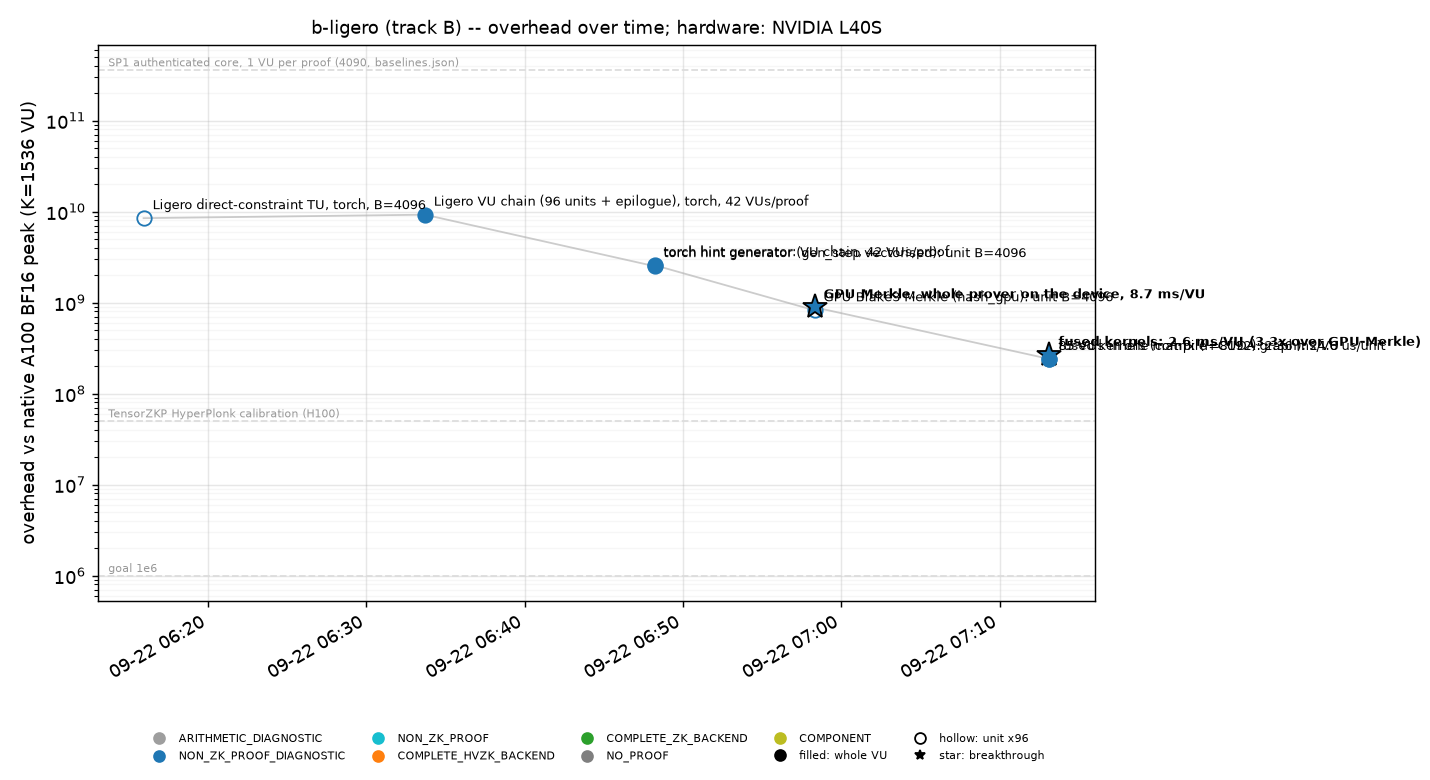
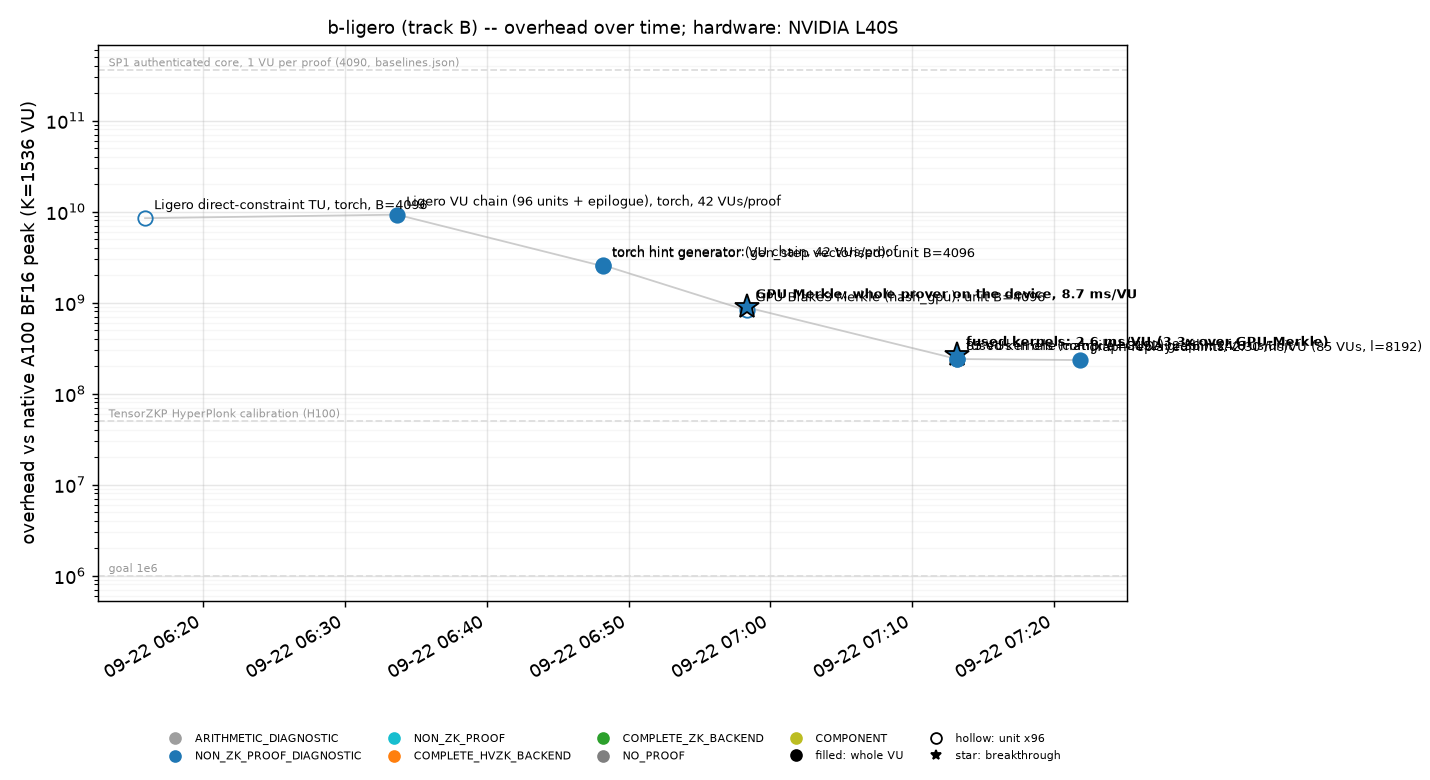
b-ligero: graph-replayed hints measured -- 23.2 us/unit, 2.57 ms/VU (42), 2.30 ms/VU (85); gates re-run; ledger + plots

diff --git a/backends/direct/ligero/README.md b/backends/direct/ligero/README.md
@@ -58,21 +58,21 @@ and constraint kernels, CUDA-graph replay of the witness program):
 
 | | unit proof, B = 4096 units | VU proof, 42 VUs (l = 4096) | VU proof, 85 VUs (l = 8192) |
 |---|---|---|---|
-| **prover total** | **0.101 s** (**24.6 us/unit**, 2.4 ms per 96 units) | **0.110 s** (**2.62 ms/VU**) | **0.200 s** (**2.36 ms/VU**) |
-| hints (torch `gen_step`, cross-checked equal to the checker's) | 0.023 s | 0.020 s | 0.037 s |
+| **prover total** | **0.095 s** (**23.2 us/unit**, 2.2 ms per 96 units) | **0.108 s** (**2.57 ms/VU**) | **0.195 s** (**2.30 ms/VU**) |
+| hints (torch `gen_step` as one CUDA graph, + the public decodes; cross-checked equal to the checker's) | 0.017 s | 0.017 s | 0.031 s |
 | witness (torch program as one CUDA graph: products, bits, selectors) | 0.008 s | 0.008 s | 0.009 s |
 | encode (int64 NTT, compiled butterfly, 3372/3516 x l -> 4l) | 0.031 s | 0.032 s | 0.069 s |
 | int32 view of U (nothing leaves the device) | 0.001 s | 0.001 s | 0.002 s |
 | Merkle (Blake3 on the GPU, 221 / 230 / 461 MB) | 0.001 s | 0.001 s | 0.002 s |
 | tests (w, quotient h, chain q; compiled combine / sparse-apply) | 0.034 s | 0.044 s | 0.079 s |
 | openings (m x t columns to the host, paths) | 0.003 s | 0.003 s | 0.004 s |
-| verifier | 0.032 s | 0.038 s | 0.054 s |
+| verifier | 0.030 s | 0.039 s | 0.054 s |
 | proof bytes | 2.83 MB (2.55 MB opened columns) | 3.14 MB (75 KB/VU) | 3.54 MB (42 KB/VU) |
 | committed | 3372 x 16384 x 4 B = 221 MB | 230 MB (5.5 MB/VU) | 461 MB |
-| peak device memory | 3.17 GB | 3.30 GB | 6.60 GB |
+| peak device memory | 3.18 GB | 3.31 GB | 6.61 GB |
 | soundness (accounting) | 2^-128.1 (t = 189, D = 6) | 2^-128.1 | 2^-128.1 |
 | `rounds.sequential_depth` | 2 | 2 | 2 |
-| **overhead vs native 9.85 ps/VU** | 2.4e8 (scope unit, x96) | **2.7e8** (scope vu) | **2.4e8** (scope vu) |
+| **overhead vs native 9.85 ps/VU** | 2.3e8 (scope unit, x96) | **2.6e8** (scope vu) | **2.3e8** (scope vu) |
 
 How it got there (ledger `b-ligero.jsonl`, all on the L40S):
 
@@ -84,17 +84,19 @@ How it got there (ledger `b-ligero.jsonl`, all on the L40S):
 | `torch.compile` NTT butterfly (7 passes/stage -> 1; 93 -> 21 ms per NTT) | 0.25 s | 0.27 s | 6.4 |
 | compiled combine / sparse-apply (tests 0.062 -> 0.034 s) | 0.19 s | 0.20 s | 4.8 |
 | CUDA-graph replay of the witness program (~2500 launches; 55 -> 8 ms) | 0.101 s | 0.110 s | 2.6 |
+| CUDA-graph replay of the hint generator (23 -> 17 ms) | 0.095 s | 0.108 s | 2.57 |
 
-What is left is roughly a three-way split between the NTT (31%), the tests (34% -- a sparse matmul of the constraint
-tables against `W`, still int64) and the host hint generator (22%, the only host work: it is `gen_step` in torch on
-the CPU tensors and moves to the device next). The prover is at 2.4 ms/VU with 0.5 ms of that outside the GPU.
+What is left is the NTT (33%), the tests (36% -- a sparse matmul of the constraint tables against `W`, still int64)
+and the hints + public decodes (18%: numpy -> device copies of the operands and ~200 small kernels with a few domain
+checks that synchronise). Both big items are int64 elementwise work; the tensor-core DFT (section 8) is the next
+step for the NTT, an int32 sparse matmul for the tests.
 
 ## Negatives and labels
 
 Every number: `NON_ZK_PROOF_DIAGNOSTIC`, authentication excluded, hardware NVIDIA L40S, security `2^-128` by the
 accounting (hash and SHAKE challenge expander are placeholders), scope `unit` numbers omit chain linkage / epilogue
 (the `vu` row has them), ZK masking omitted (its cost: PROTOCOL.md section 8b -- at `2^-128` it doubles the codeword
-length, so encoding and hashing double: +0.03 s on the 0.10 s prover, ~+30%). No predicate of WP2's
+length, so encoding and hashing double: +0.03 s on the 0.095 s prover, ~+33%). No predicate of WP2's
 `check_step_expr` / `check_vu_expr` is dropped; the restatements are listed in PROTOCOL.md section 5 and 7b.
 
 ## Files

diff --git a/backends/direct/ligero/PROTOCOL.md b/backends/direct/ligero/PROTOCOL.md
@@ -207,7 +207,7 @@ extra committed rows, negligible). With `k = l + t = 4285 -> 8192` (the next pow
 the rate halves to 1/2: Appendix C then needs `t` such that `(1 - e/n)^t + ((k + l)/n)^t + (2k/n)^t <= 2^-128` with
 `e = (n - k)/2 = 4096`: `(3/4)^t` -> `t = 309`, `(2k/n)^t = 1^t` -- **the quadratic test fails at rate 1/2**
 (`n > 2k` is required). So ZK at `2^-128` needs `n = 32768` (rate 1/4 again with `k = 8192`): encoding, transfer and
-hashing double (`+0.03 s` on the 0.10 s prover at B = 4096: encode 0.031 -> 0.062, hashing 1 -> 2 ms, ~+30%), the opened columns stay `t = 189` (same `(5/8)^189`
+hashing double (`+0.03 s` on the 0.095 s prover at B = 4096: encode 0.031 -> 0.062, hashing 1 -> 2 ms, ~+30%), the opened columns stay `t = 189` (same `(5/8)^189`
 with `e = (n - k)/2 = 12288`) but `m t` bytes are unchanged, `w, h, q` double in length (`+0.4 MB`), peak memory
 doubles (`6.3 GB`; the 85-VU `l = 8192, n = 32768` run measured 6.6 GB). Alternatively keep `n = 16384` and halve `l` to 2048 units per proof (42 -> 21 VUs): same
 per-unit encoding cost, twice the fixed per-proof overhead. Malicious-verifier ZK (the AGENTS.md requirement) adds
@@ -220,12 +220,11 @@ a commitment to the verifier's coins before `root` (one more round; depth 3) -- 
   of `U` to the host (0.37 s) and host hashing (0.28 s) were 65% of the GPU-side prover; now 2 ms.
 * Hints: `hints_torch.py` vectorises `gen_step` (20 ms per 4096 units vs 2.6 s in Python); the gate asserts equality
   with the checker's `gen_step` on every proved unit. A wrong hint is a completeness bug (the constraints reject it),
-  never a soundness one. It runs on the host (23 ms per 4096 units, 22% of the prover); moving it to the device is
-  the next step.
+  never a soundness one. On the device as one CUDA graph (17 ms per 4096 units incl. the public decodes).
 * Kernel fusion (final state): `torch.compile` on the NTT butterfly and on the constraint-table kernels (`_combine`,
   `apply_sparse`), and CUDA-graph replay of the whole witness program (~2500 launches -> one graph; 55 -> 8 ms).
-  Prover 0.101 s per 4096 units (24.6 us/unit), 0.110 s per 42 VUs (2.6 ms/VU), 0.200 s per 85 VUs at `l = 8192`
-  (2.36 ms/VU); `results/result_*.json`.
+  The hint generator is graph-replayed too. Prover 0.095 s per 4096 units (23.2 us/unit), 0.108 s per 42 VUs
+  (2.57 ms/VU), 0.195 s per 85 VUs at `l = 8192` (2.30 ms/VU); `results/result_*.json`.
 * The hash and the SHAKE-256 challenge expander remain "placeholders" in the sense of the shared brief (not the
   campaign's final choice of hash).
 * ZK masking: section 8b (design + cost, not implemented).
